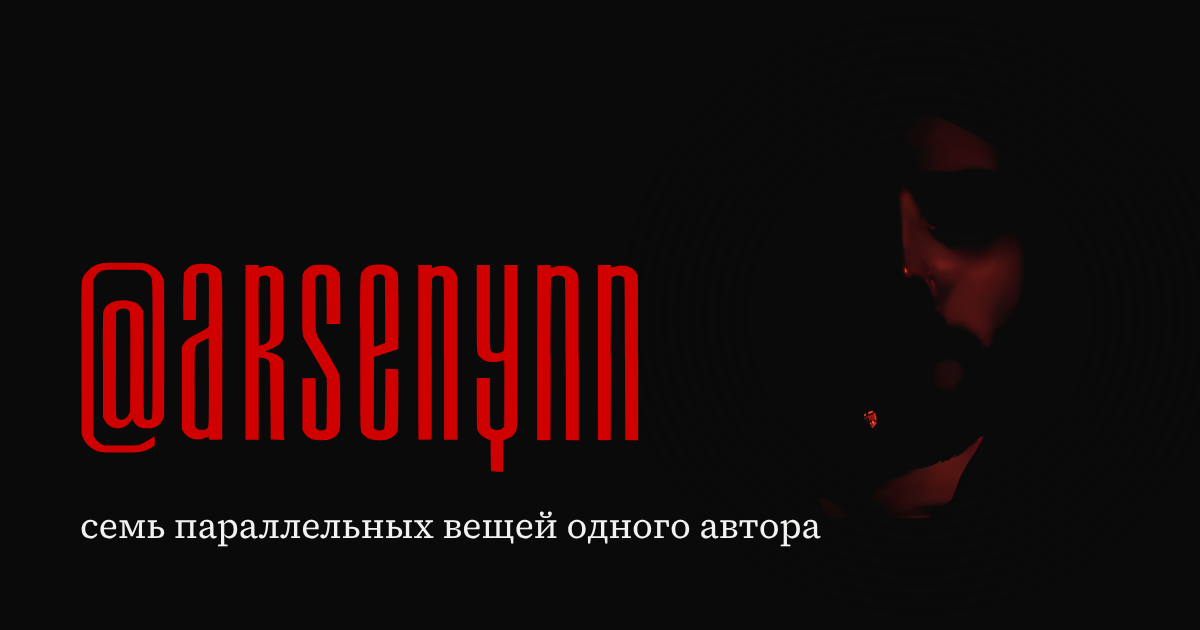
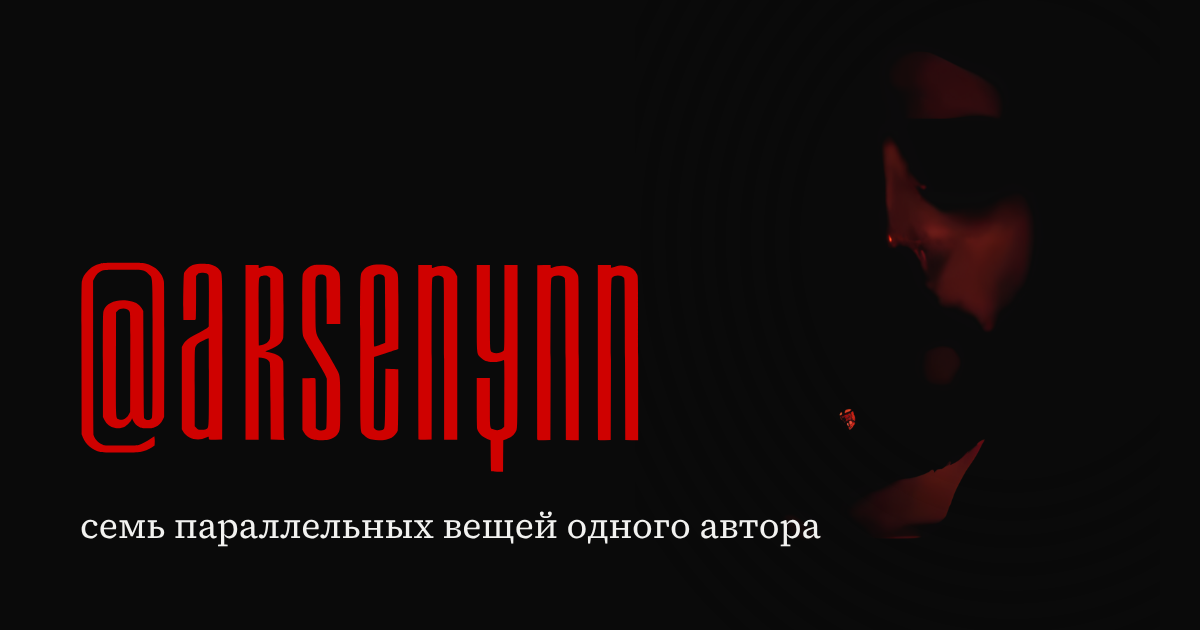
feat: hero as a title card with the portrait
Crop the portrait tighter, let it bleed to the right edge and under the
header, and set the wordmark over its dark lower part like a film
title. Fills the empty top-right area on phone and desktop.

Claude-Session: https://claude.ai/code/session_01JHkr13phc59Zc6LMjoher3

diff --git a/src/data/site.ts b/src/data/site.ts
@@ -14,7 +14,7 @@ export const site = {
     title: '@arsenynn',
     logo: { src: '/logos/arsenynn.svg', width: 1235, height: 491 },
     // Главный логотип хаба: портрет в красном свете, единственное изображение сайта.
-    portrait: { src: '/portrait.webp', width: 800, height: 800 },
+    portrait: { src: '/portrait.webp', width: 750, height: 900 },
     // Одна строка вместо трёх слоёв объяснения (advisory: reduce explanation, increase identity).
     line: 'семь параллельных вещей одного автора',
   },

diff --git a/docs/architecture.md b/docs/architecture.md
@@ -1,5 +1,5 @@
 # Architecture
-LastUpdated: 2026-11-01 18:20 MSK
+LastUpdated: 2026-11-01 18:35 MSK
 
 Статус: MVP реализован по этой архитектуре. Требования и их причины находятся в `docs/brief.md`, здесь только технические решения.
 
@@ -78,7 +78,7 @@ type Project = {
 - Если у проекта есть `mark`, знак (`--mark-height`) стоит в строке номера: на телефоне справа от номера, с 48rem под номером в левой колонке. `alt` пустой, название есть текстом.
 - Сетка строки проекта: телефон одна колонка (meta, body, actions, details), с 48rem две колонки (8rem | контент), с 64rem три (8rem | контент | 14rem действия).
 - Если у проекта есть `logo`, вместо текста в `<h2>` выводится `<img>` с `alt` = `title`. Высота задаётся токеном `--logo-height`.
-- Hero: портрет `site.hero.portrait` (главный логотип хаба), wordmark из `site.hero.logo` и одна строка `site.hero.line`. Портрет: чёрный кадра поднят до фона #0a0a0a, края растворяются radial mask, WebP без потерь (с потерями давал кольца на маске); на телефоне над wordmark справа, с 64rem справа от wordmark. Wordmark (SVG, `fetchpriority=high`), без логотипа выводится текст. Header содержит только ссылку Portfolio, имя не дублируется.
+- Hero: портрет `site.hero.portrait` (главный логотип хаба), wordmark из `site.hero.logo` и одна строка `site.hero.line`. Портрет — титульный кадр: плотный вертикальный кроп 750×900, чёрный поднят до фона #0a0a0a, WebP без потерь. Абсолютно справа, заходит под шапку (header z-index 2), края растворяются эллиптической маской. Телефон: ширина до 82vw, wordmark начинается ниже огонька в кадре (padding-top 68vw). С 64rem кадр на всю высоту hero. Wordmark (SVG, `fetchpriority=high`), без логотипа выводится текст. Header содержит только ссылку Portfolio, имя не дублируется.
 - В названии разрешён перенос перед внутренним `@` (`workflow@arsenynn`), посреди слова названия не рвутся.
 - `slug` резервирует будущий маршрут. Страниц проектов в MVP нет.
 - Тексты лежат отдельно от разметки, поэтому RU/EN можно добавить позже без переписывания компонентов. Переключателя языка в MVP нет.

diff --git a/docs/decisions_log.md b/docs/decisions_log.md
@@ -1,9 +1,30 @@
 # Decisions Log
-LastUpdated: 2026-11-01 18:20 MSK
+LastUpdated: 2026-11-01 18:35 MSK
 
 Этот файл хранит историю проекта: важные решения, изменения подхода, причины архитектурных поворотов, rejected options, runtime findings и выводы, которые помогают понять, как проект развивался.
 
 Записи идут в обратном хронологическом порядке: новые сверху.
+
+---
+
+## 2026-11-01 — Hero как титульный кадр
+
+**Type:** decision
+**Project:** arsenynn.com
+**Status:** accepted
+**Related files:** `src/components/Hero.astro`, `public/portrait.webp`
+
+### Context
+Владелец: после добавления портрета пропорции нарушены, много пустого места вверху справа.
+
+### Decision
+Плотный вертикальный кроп лица, портрет уходит в правый край и под шапку, wordmark стоит поверх тёмной нижней части кадра как титр. На desktop кадр на всю высоту hero.
+
+### Lesson
+Огонёк в кадре над буквой «e» читался как диакритика («@arsēnynn»): декоративные световые точки нельзя ставить вплотную к wordmark.
+
+### Source
+Сообщение владельца 2026-11-01.
 
 ---
 
